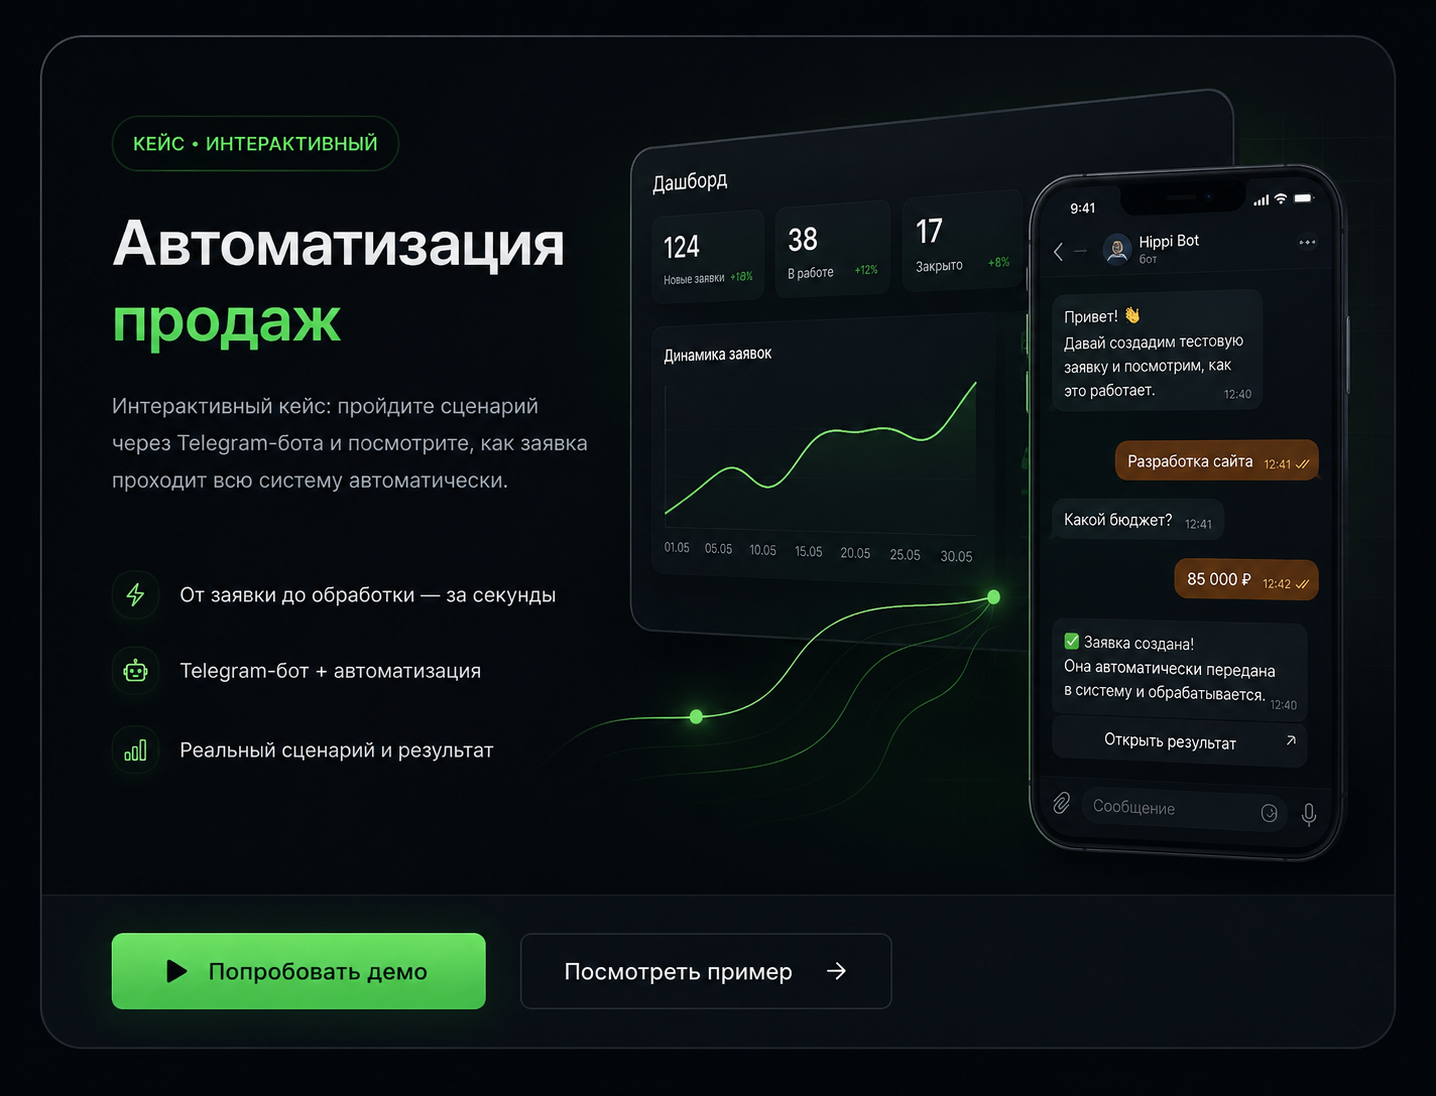
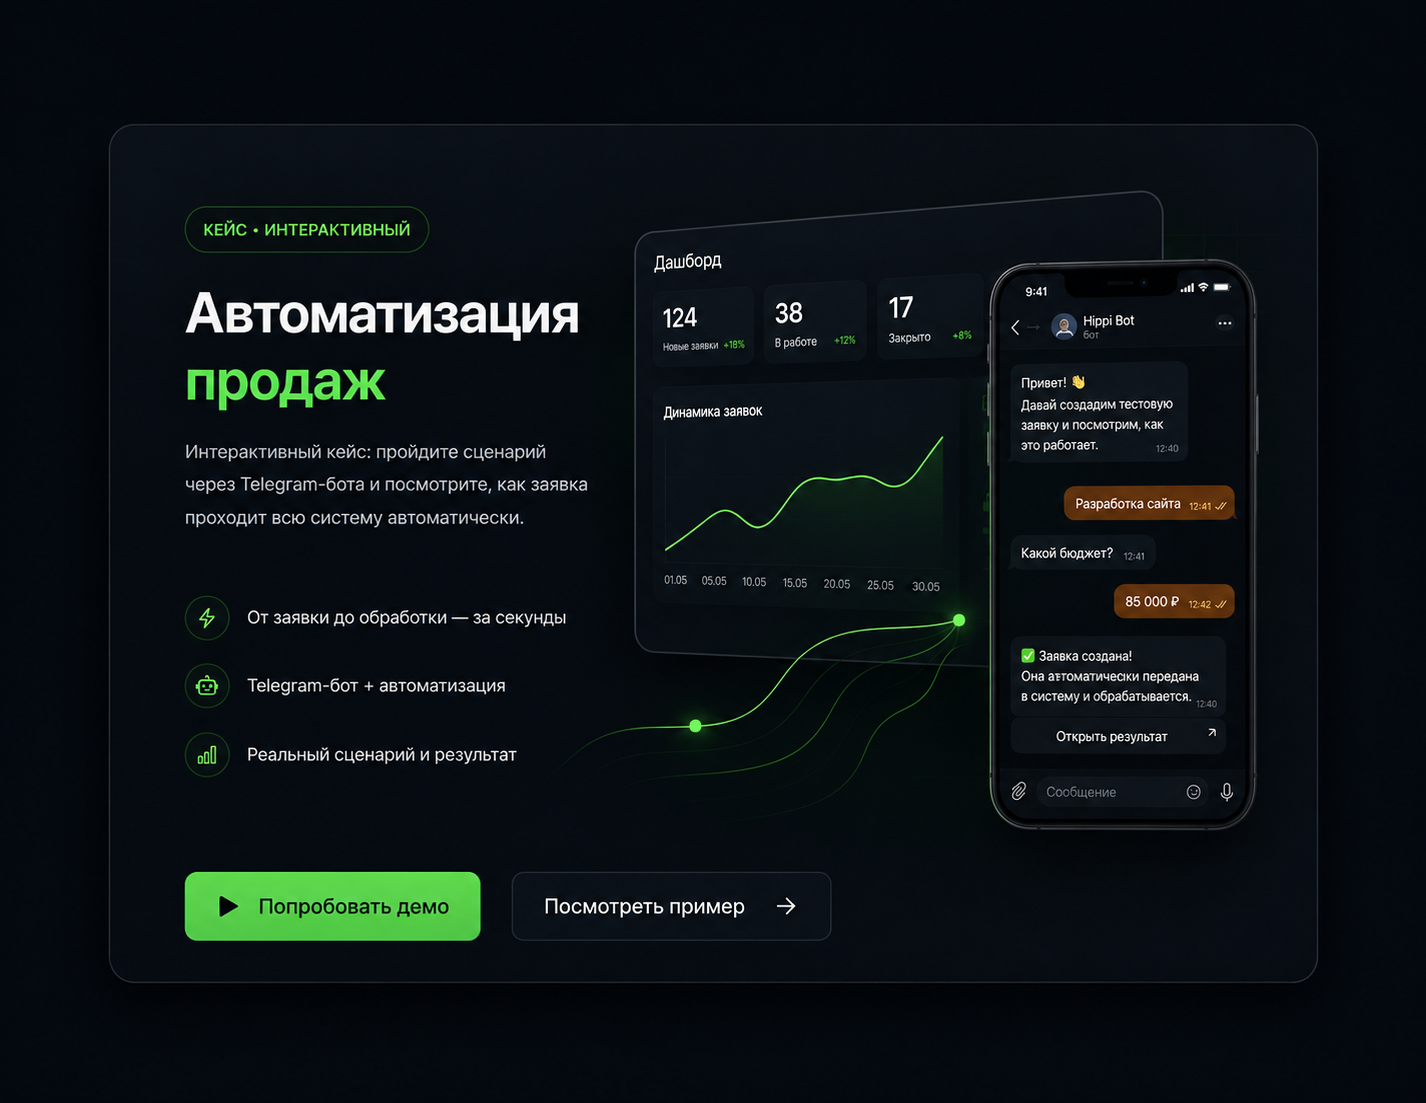
Use standard card styling for automation case with new screenshot

diff --git a/index.html b/index.html
@@ -371,7 +371,7 @@
         <article class="case case-narrow reveal" style="--d:2">
           <div class="case-card case-card-trigger" role="button" tabindex="0"
                aria-haspopup="dialog" aria-controls="automation-case-modal">
-            <figure class="shot case-shot case-shot--fit" data-slot="case-3">
+            <figure class="shot case-shot" data-slot="case-3">
               <img src="assets/img/automation.png"
                    alt="Интерактивный кейс: автоматизация продаж через Telegram-бота и дашборд"
                    width="1436" height="1096" loading="lazy" decoding="async"

diff --git a/assets/css/styles.css b/assets/css/styles.css
@@ -878,11 +878,6 @@ ul { list-style: none; padding: 0; }
   object-fit: fill;
   object-position: center;
 }
-/* Скриншот целиком внутри кадра: картинка не обрезается и не выходит за рамки */
-.case-shot--fit img {
-  object-fit: contain;
-  object-position: center;
-}
 
 .case-meta {
   display: flex;
